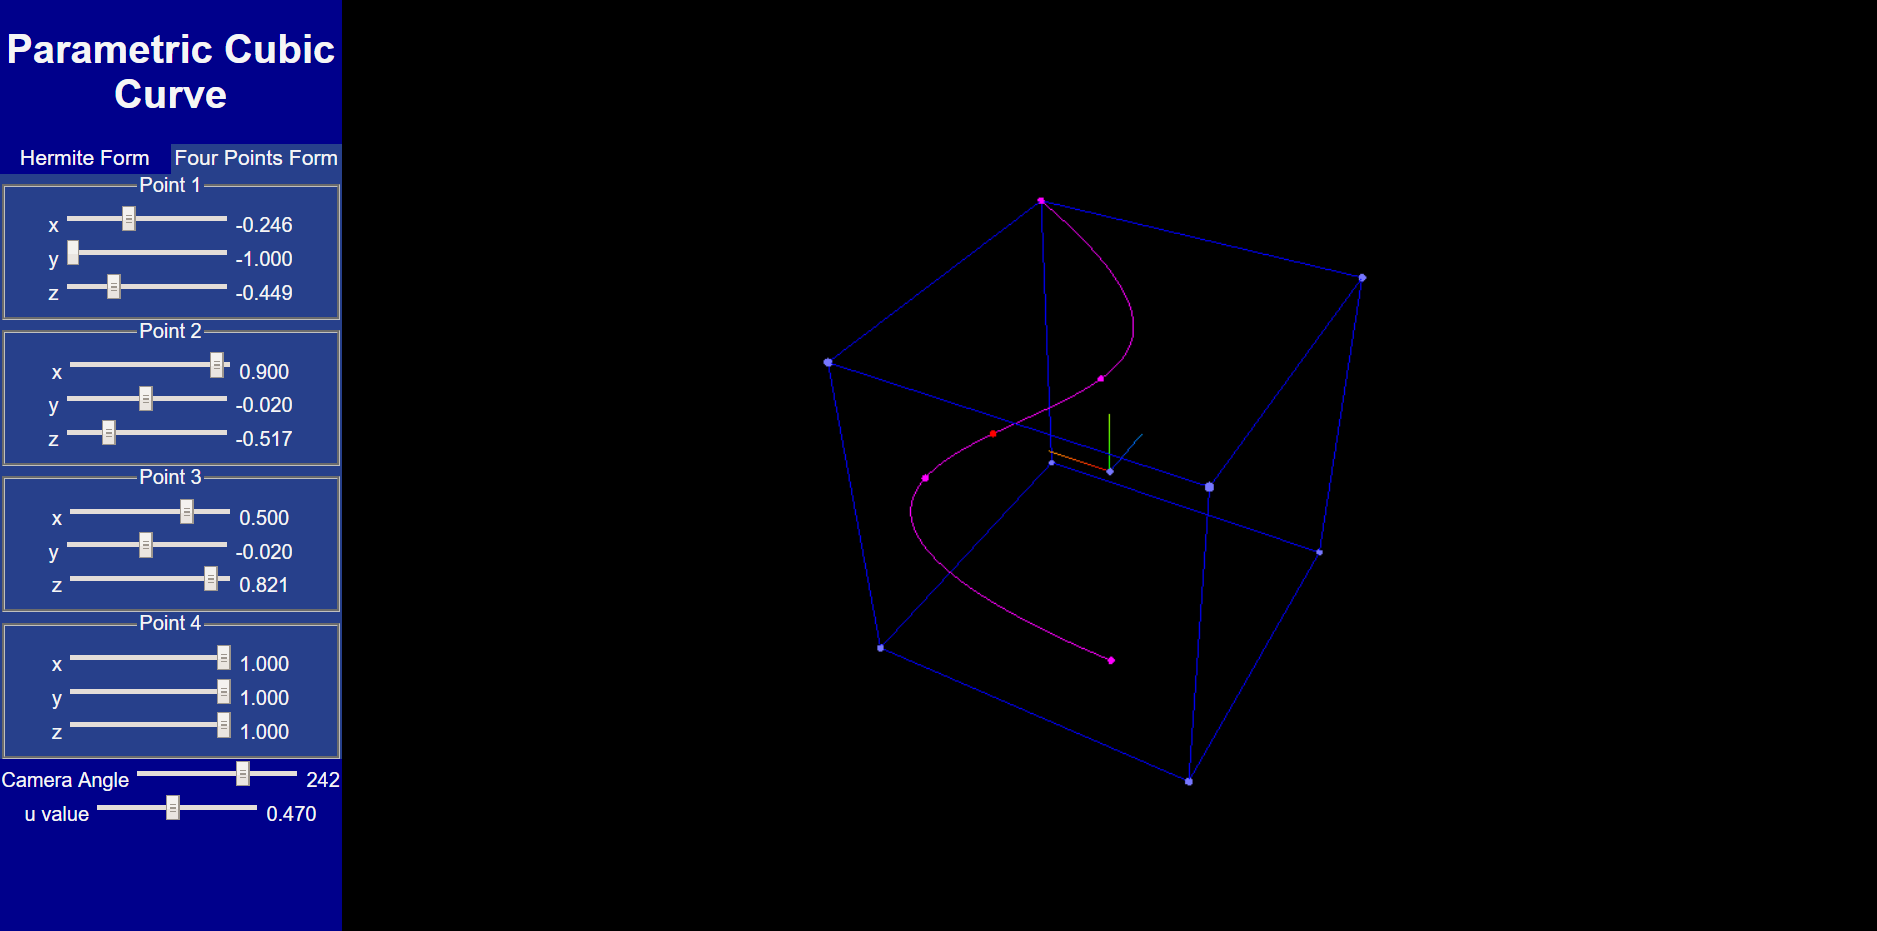
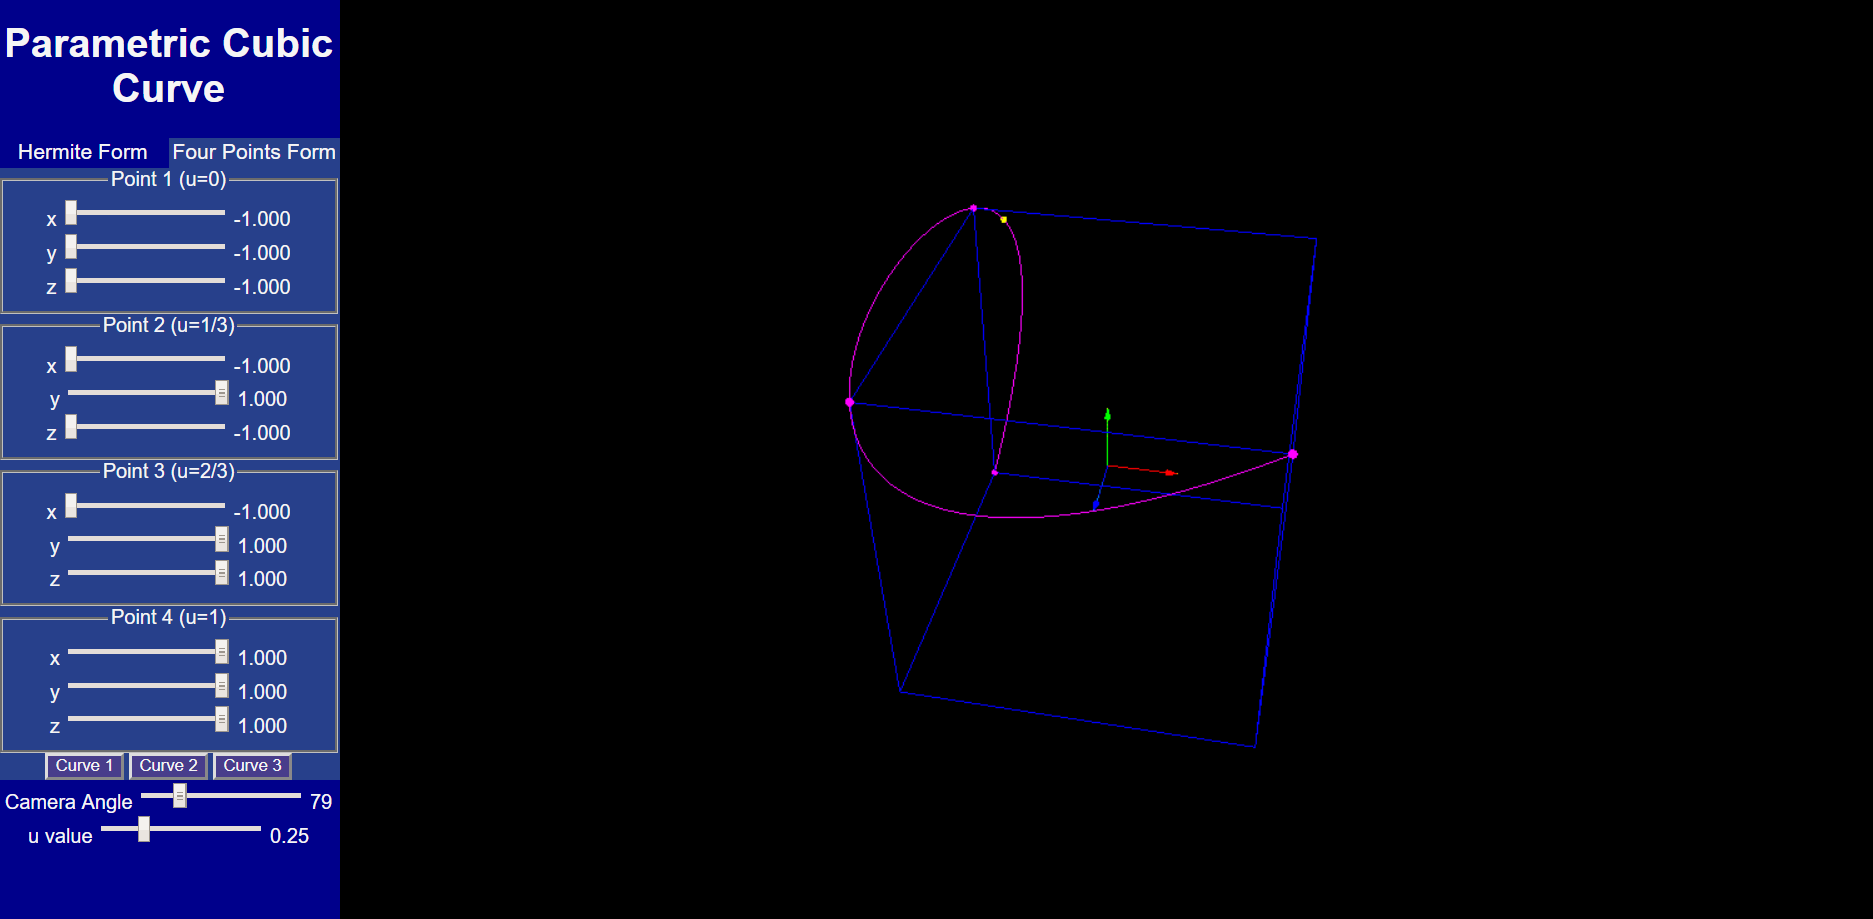
Added some buttons, refactored the code

diff --git a/js/script.js b/js/script.js
@@ -47,6 +47,7 @@ let arrowHelper1, arrowHelper2, arrowHelper3;
 let arrowDirection1 = new THREE.Vector3();
 let arrowDirection2 = new THREE.Vector3();
 let arrowDirection3 = new THREE.Vector3();
+let bnFourLine1, bnFourLine2, bhHermLine1, bnHermLine2;
 
 window.onload = init;
 
@@ -256,6 +257,42 @@ function init() {
         changeUvalue();
     }, false);
 
+    document.getElementById("bnFourLine1").addEventListener('click',
+        function () {
+            setValuesFourLine1();
+        }, false);
+
+    document.getElementById("bnFourLine2").addEventListener('click',
+        function () {
+            setValuesFourLine2();
+        }, false);
+
+    document.getElementById("bnFourLine3").addEventListener('click',
+        function () {
+            setValuesFourLine3();
+        }, false);
+
+    document.getElementById("bnHermiteLine1").addEventListener('click',
+        function () {
+            setValuesHermiteLine1();
+        }, false);
+
+    document.getElementById("bnHermiteLine2").addEventListener('click',
+        function () {
+            setValuesHermiteLine2();
+        }, false);
+
+    document.getElementById("bnHermiteLine3").addEventListener('click',
+        function () {
+            setValuesHermiteLine3();
+        }, false);
+
+    document.getElementById("bnHermiteLine4").addEventListener('click',
+        function () {
+            setValuesHermiteLine4();
+        }, false);
+
+
     halfCubeSide = 1;
 
     renderer.setClearColor(new THREE.Color(0x000000));
@@ -281,15 +318,135 @@ function init() {
     arrowHelper3 = new THREE.ArrowHelper(arrowDirection3, origin, 0.4, 0x0000ff, 0.07, 0.04);
     scene.add(arrowHelper3);
 
-    setupCubePoints();
     setupWireframeBox();
     handleCameraAngle();
     computeCurveFourPointsForm();
-
     document.getElementById("webglOp").appendChild(renderer.domElement);
-
     animate();
     render();
+}
+
+function setValuesFourLine1() {
+    // Straight Line 1
+    p1x = -1.0; p1y = -1.0; p1z = -1.0;
+    p2x = -0.33; p2y = -0.33; p2z = -0.33;
+    p3x = 0.33; p3y = 0.33; p3z = 0.33;
+    p4x = 1.0; p4y = 1.0; p4z = 1.0;
+
+    updateOutputLabelsFour();
+    computeCurveFourPointsForm();
+}
+
+function setValuesFourLine2() {
+    // Straight Line 2
+    p1x = -1.0; p1y = -1.0; p1z = -1.0;
+    p2x = -0.7; p2y = -0.7; p2z = -0.7;
+    p3x = 0.7; p3y = 0.7; p3z = 0.7;
+    p4x = 1.0; p4y = 1.0; p4z = 1.0;
+
+    updateOutputLabelsFour();
+    computeCurveFourPointsForm();
+}
+
+function setValuesFourLine3() {
+    // Curved Line
+    p1x = -1.0; p1y = -1.0; p1z = -1.0;
+    p2x = -1.0; p2y = 1.0; p2z = -1.0;
+    p3x = -1.0; p3y = 1.0; p3z = 1.0;
+    p4x = 1.0; p4y = 1.0; p4z = 1.0;
+
+    updateOutputLabelsFour();
+    computeCurveFourPointsForm();
+}
+
+function updateOutputLabelsFour() {
+    p1xRange.value = p1x; p1yRange.value = p1y; p1zRange.value = p1z;
+    p2xRange.value = p2x; p2yRange.value = p2y; p2zRange.value = p2z;
+    p3xRange.value = p3x; p3yRange.value = p3y; p3zRange.value = p3z;
+    p4xRange.value = p4x; p4yRange.value = p4y; p4zRange.value = p4z;
+
+    document.getElementById('opPoint1x').textContent = p1x.toFixed(3);
+    document.getElementById('opPoint1y').textContent = p1y.toFixed(3);
+    document.getElementById('opPoint1z').textContent = p1z.toFixed(3);
+
+    document.getElementById('opPoint2x').textContent = p2x.toFixed(3);
+    document.getElementById('opPoint2y').textContent = p2y.toFixed(3);
+    document.getElementById('opPoint2z').textContent = p2z.toFixed(3);
+
+    document.getElementById('opPoint3x').textContent = p3x.toFixed(3);
+    document.getElementById('opPoint3y').textContent = p3y.toFixed(3);
+    document.getElementById('opPoint3z').textContent = p3z.toFixed(3);
+
+    document.getElementById('opPoint4x').textContent = p4x.toFixed(3);
+    document.getElementById('opPoint4y').textContent = p4y.toFixed(3);
+    document.getElementById('opPoint4z').textContent = p4z.toFixed(3);
+}
+
+function setValuesHermiteLine1() {
+    // Straight Line
+    p1xh = -1.0; p1yh = -1.0; p1zh = -1.0;
+    p2xh = 1.0; p2yh = 1.0; p2zh = 1.0;
+    p1dxh = 1.0; p1dyh = 1.0; p1dzh = 1.0;
+    p2dxh = 1.0; p2dyh = 1.0; p2dzh = 1.0;
+
+    updateOutputLabelsHermite();
+    computeCurveHermiteForm();
+}
+
+function setValuesHermiteLine2() {
+    // Straight line - this is a 'non-linear' straight line
+    p1xh = -1.0; p1yh = -1.0; p1zh = -1.0;
+    p2xh = 1.0; p2yh = 1.0; p2zh = 1.0;
+    p1dxh = 10.0; p1dyh = 10.0; p1dzh = 10.0;
+    p2dxh = 10.0; p2dyh = 10.0; p2dzh = 10.0;
+
+    updateOutputLabelsHermite();
+    computeCurveHermiteForm();
+}
+
+function setValuesHermiteLine3() {
+    // Straight line - this is also a non-linear straight line
+    p1xh = -1.0; p1yh = -1.0; p1zh = -1.0;
+    p2xh = 1.0; p2yh = 1.0; p2zh = 1.0;
+    p1dxh = -10.0; p1dyh = -10.0; p1dzh = -10.0;
+    p2dxh = -10.0; p2dyh = -10.0; p2dzh = -10.0;
+
+    updateOutputLabelsHermite();
+    computeCurveHermiteForm();
+}
+
+function setValuesHermiteLine4() {
+    // Curve
+    p1xh = -1.0; p1yh = -1.0; p1zh = -1.0;
+    p2xh = 1.0; p2yh = 1.0; p2zh = 1.0;
+    p1dxh = -5.0; p1dyh = 5.0; p1dzh = -5.0;
+    p2dxh = 5.0; p2dyh = -5.0; p2dzh = 5.0;
+
+    updateOutputLabelsHermite();
+    computeCurveHermiteForm();
+}
+
+function updateOutputLabelsHermite() {
+    p1xRangeh.value = p1xh; p1yRangeh.value = p1yh; p1zRangeh.value = p1zh;
+    p2xRangeh.value = p2xh; p2yRangeh.value = p2yh; p2zRangeh.value = p2zh;
+    p1dxRangeh.value = p1dxh; p1dyRangeh.value = p1dyh; p1dzRangeh.value = p1dzh;
+    p2dxRangeh.value = p2dxh; p2dyRangeh.value = p2dyh; p2dzRangeh.value = p2dzh;
+
+    document.getElementById('opPoint1xh').textContent = p1xh.toFixed(3);
+    document.getElementById('opPoint1yh').textContent = p1yh.toFixed(3);
+    document.getElementById('opPoint1zh').textContent = p1zh.toFixed(3);
+
+    document.getElementById('opPoint2xh').textContent = p2xh.toFixed(3);
+    document.getElementById('opPoint2yh').textContent = p2yh.toFixed(3);
+    document.getElementById('opPoint2zh').textContent = p2zh.toFixed(3);
+
+    document.getElementById('opPoint1dxh').textContent = p1dxh.toFixed(3);
+    document.getElementById('opPoint1dyh').textContent = p1dyh.toFixed(3);
+    document.getElementById('opPoint1dzh').textContent = p1dzh.toFixed(3);
+
+    document.getElementById('opPoint2dxh').textContent = p2dxh.toFixed(3);
+    document.getElementById('opPoint2dyh').textContent = p2dyh.toFixed(3);
+    document.getElementById('opPoint2dzh').textContent = p2dzh.toFixed(3);
 }
 
 function initializeValues() {
@@ -347,9 +504,13 @@ function openPage(pageName, elmnt, color) {
 
     if (pageName === 'hermite') {
         pageCurrent = 'hermite';
+        initializeValues();
+        updateOutputLabelsFour();
         computeCurveHermiteForm();
     } else {
         pageCurrent = 'fourPoints';
+        initializeValues();
+        updateOutputLabelsHermite();
         computeCurveFourPointsForm();
     }
 }
@@ -508,39 +669,6 @@ function renderCurve() {
     scene.add(curveLine);
     render();
 }
-
-function setupCubePoints() {
-    let pt = new THREE.Vector3(halfCubeSide, -halfCubeSide, halfCubeSide); // Point A
-    points.push(pt);
-    pt = new THREE.Vector3(halfCubeSide, -halfCubeSide, -halfCubeSide); // Point B
-    points.push(pt);
-    pt = new THREE.Vector3(-halfCubeSide, -halfCubeSide, -halfCubeSide); // Point C
-    points.push(pt);
-    pt = new THREE.Vector3(-halfCubeSide, -halfCubeSide, halfCubeSide); // Point D
-    points.push(pt);
-    pt = new THREE.Vector3(halfCubeSide, halfCubeSide, halfCubeSide); // Point E
-    points.push(pt);
-    pt = new THREE.Vector3(halfCubeSide, halfCubeSide, -halfCubeSide); // Point F
-    points.push(pt);
-    pt = new THREE.Vector3(-halfCubeSide, halfCubeSide, -halfCubeSide); // Point G
-    points.push(pt);
-    pt = new THREE.Vector3(-halfCubeSide, halfCubeSide, halfCubeSide); // Point H
-    points.push(pt);
-    pt = new THREE.Vector3(0, 0, 0); // Point O
-    points.push(pt);
-}
-
-/* Doesn't work well - shows the actual triangulation of the cube
-   function setupWireframeBox() {
-    let geometry = new THREE.CubeGeometry(20, 20, 20);
-    let material = new THREE.MeshBasicMaterial({
-        color: 0xff0000,
-        wireframe: true
-    });
-
-    let box = new THREE.Mesh(geometry, material);
-    scene.add(box);
-} */
 
 function setupWireframeBox() {
     let material = new THREE.LineBasicMaterial({ color: 0x0000ff });

diff --git a/index.html b/index.html
@@ -55,6 +55,9 @@
                     z <input type="range" id="point4z" min=-1.00 max=1.00 step="0.001" value=1.00>
                     <output id="opPoint4z">1.000</output><br>
                 </fieldset>
+                <button id="bnFourLine1">Curve 1</button>
+                <button id="bnFourLine2">Curve 2</button>
+                <button id="bnFourLine3">Curve 3</button>
             </div>
 
             <div id="hermite" class="tabcontent">
@@ -77,7 +80,7 @@
                     <output id="opPoint2zh">1.000</output><br>
                 </fieldset>
                 <fieldset id="point1dh">
-                    <legend>Point 1 Derivative (u=0)</legend>
+                    <legend>Point 1 Tangent (u=0)</legend>
                     x <input type="range" id="point1dxh" min=-10.00 max=10.00 step="0.01" value=0.0>
                     <output id="opPoint1dxh">0.00</output><br>
                     y <input type="range" id="point1dyh" min=-10.00 max=10.00 step="0.01" value=7.5>
@@ -86,7 +89,7 @@
                     <output id="opPoint1dzh">-0.500</output><br>
                 </fieldset>
                 <fieldset id="point2dh">
-                    <legend>Point 2 Derivative (u=1)</legend>
+                    <legend>Point 2 Tangent (u=1)</legend>
                     x <input type="range" id="point2dxh" min=-10.00 max=10.00 step="0.01" value=0.5>
                     <output id="opPoint2dxh">0.500</output><br>
                     y <input type="range" id="point2dyh" min=-10.00 max=10.00 step="0.01" value=9.5>
@@ -94,6 +97,10 @@
                     z <input type="range" id="point2dzh" min=-10.00 max=10.00 step="0.01" value=0.5>
                     <output id="opPoint2dzh">0.500</output><br>
                 </fieldset>
+                <button id="bnHermiteLine1">Curve 1</button>
+                <button id="bnHermiteLine2">Curve 2</button>
+                <button id="bnHermiteLine3">Curve 3</button>
+                <button id="bnHermiteLine4">Curve 4</button>
             </div>
 
             <form>

diff --git a/css/style.css b/css/style.css
@@ -32,3 +32,8 @@
 #hermite {
     background-color: #5971AD;
 }
+
+button {
+    background-color: darkslateblue;
+    color: whitesmoke; 
+}
